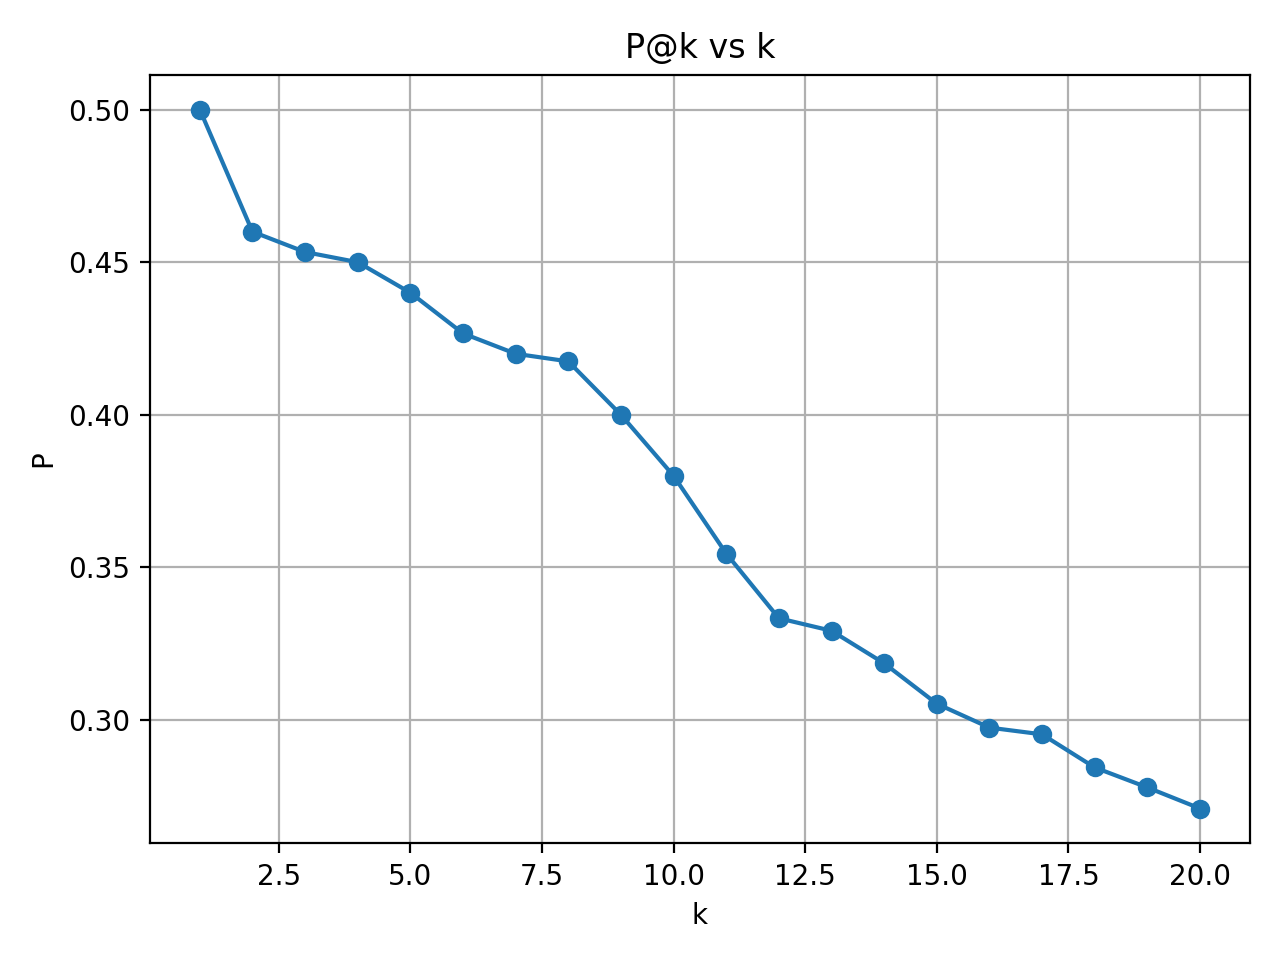
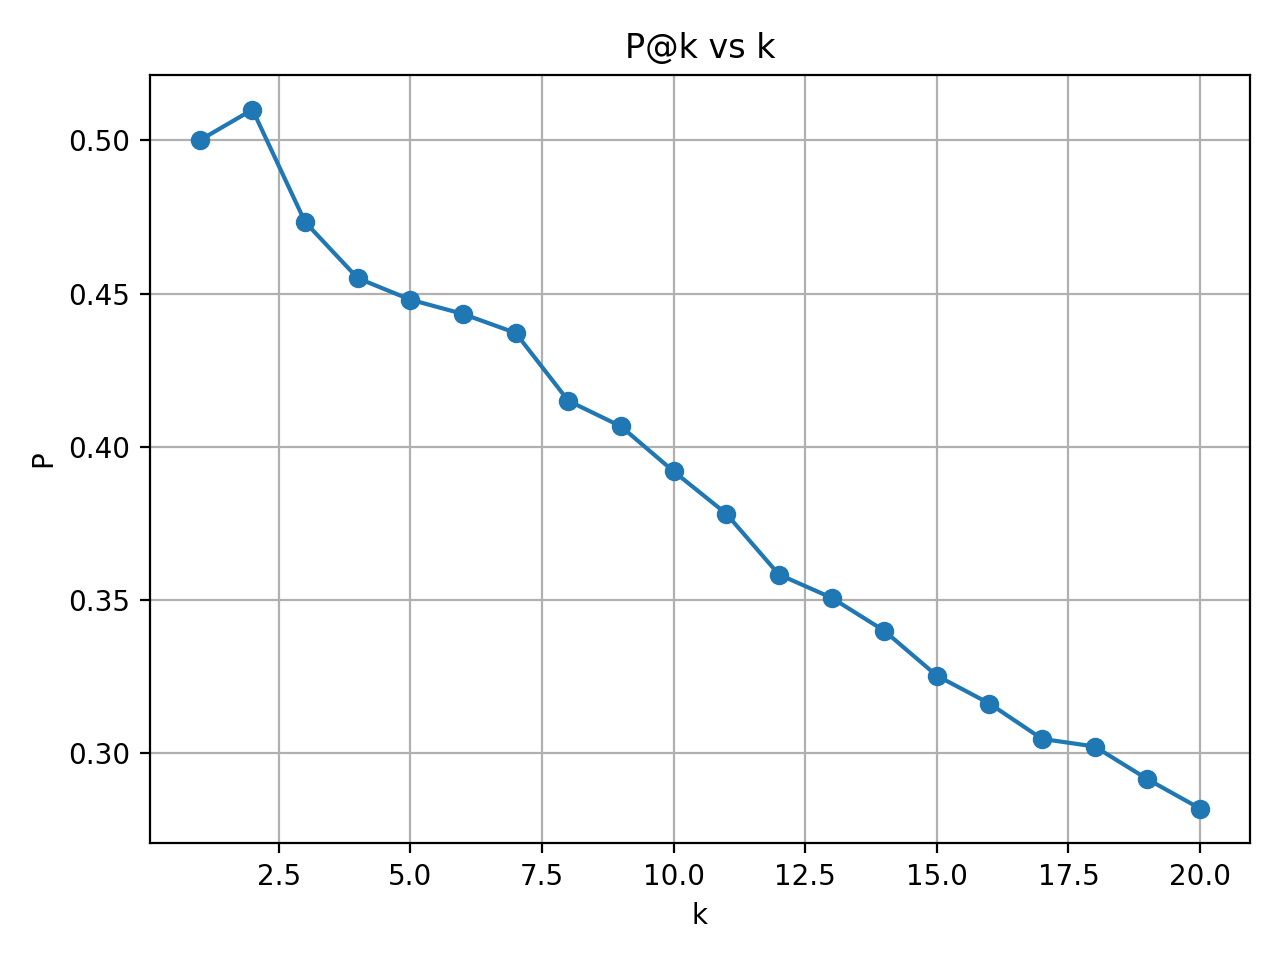
Added latest research

diff --git a/main/llm/automatic.py b/main/llm/automatic.py
@@ -9,13 +9,12 @@ import time
 scripts = [
     # "/home/abhi/Desktop/Manami/recommender-system/main/llm/eval_ctx_llm.py",
     # "/home/abhi/Desktop/Manami/recommender-system/main/llm/2-1.py",
-    "/home/abhi/Desktop/Manami/recommender-system/main/llm/3-1.py", 
-    "/home/abhi/Desktop/Manami/recommender-system/main/llm/4-1.py",
-    "/home/abhi/Desktop/Manami/recommender-system/main/llm/5-2.py",
+    # "/home/abhi/Desktop/Manami/recommender-system/main/llm/3-1.py", 
+    # "/home/abhi/Desktop/Manami/recommender-system/main/llm/4-1.py",
+    # "/home/abhi/Desktop/Manami/recommender-system/main/llm/5-2.py",
     "/home/abhi/Desktop/Manami/recommender-system/main/llm/2-2.py", 
     "/home/abhi/Desktop/Manami/recommender-system/main/llm/3-2.py",
     "/home/abhi/Desktop/Manami/recommender-system/main/llm/4-2.py",
-
 ]
 
 # Loop through each script

diff --git a/main/llm/merge_system.py b/main/llm/merge_system.py
@@ -3,14 +3,14 @@ import matplotlib.pyplot as plt
 
 # 1) load all CSVs
 files = [
-    "1metrics_bm25.csv",
+    "3metrics_bm25.csv",
     # "1metrics_rrf_llm_working2.csv",
-    "1metrics_rrf.csv",
+    "3metrics_rrf.csv",
     # "2metrics_rrf_llm_working31.csv",
-    "1metrics_rrf_llm_working3.csv",
-        "1metrics_rrf_llm_working32.csv",
+    # "3metrics_rrf_llm_working22.csv",
+    "3metrics_rrf_llm_working32.csv",
 ]
-dfs = [pd.read_csv(f"./csv1/{fn}") for fn in files]
+dfs = [pd.read_csv(f"./csv3/{fn}") for fn in files]
 
 # 2) concatenate
 all_df = pd.concat(dfs, ignore_index=True)
